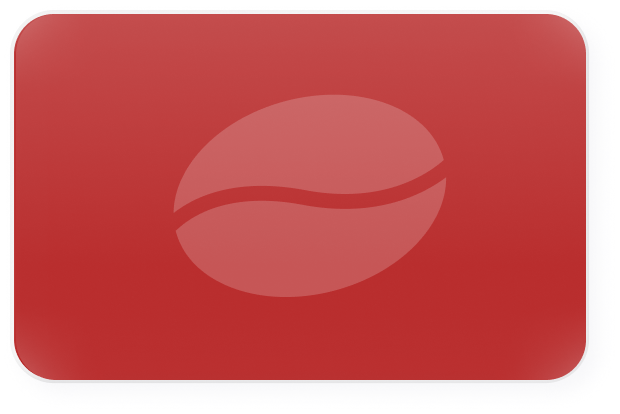
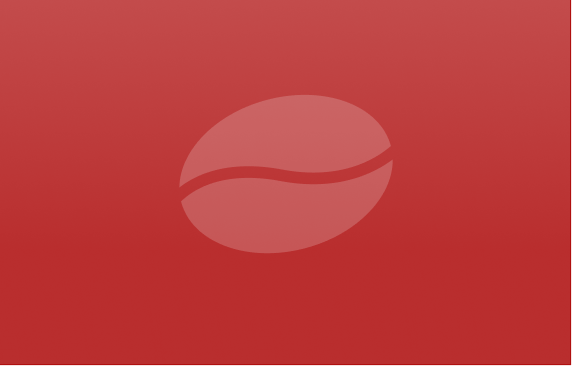
fixed style of the cards

Changed region(s): [[0.0, 0.0, 1.0, 1.0], [0.2675, 0.2104, 0.743, 0.7213], [0.4458, 0.4508, 0.4755, 0.4809]]

diff --git a/app/assets/stylesheets/pages/_card_style_themes.scss b/app/assets/stylesheets/pages/_card_style_themes.scss
@@ -1,4 +1,4 @@
-#gold {
+.loyalty-card .loyalty-card-back.gold {
   background: linear-gradient(135deg, rgba(0, 0, 0, 0.05) 0%, rgba(255, 255, 255, 0.05) 100%),
   linear-gradient(0deg, #e5d060, #e5d060);
   border: 2px solid;
@@ -8,7 +8,7 @@
   box-shadow: -2px -2px 4px 0px #00000014 inset;
 }
 
-#red {
+.loyalty-card .loyalty-card-back.red {
   background: linear-gradient(135deg, rgba(0, 0, 0, 0.05) 0%, rgba(255, 255, 255, 0.05) 100%),
   linear-gradient(0deg, #c34d4d, #c34d4d);
   border: 2px solid;
@@ -18,7 +18,7 @@
   box-shadow: -2px -2px 4px 0px #00000014 inset;
 }
 
-#sky-blue {
+.loyalty-card .loyalty-card-back.sky-blue {
   background: linear-gradient(135deg, rgba(0, 0, 0, 0.05) 0%, rgba(255, 255, 255, 0.05) 100%),
   linear-gradient(0deg, #9ae6fe, #9ae6fe);
   border: 2px solid;
@@ -28,7 +28,7 @@
   box-shadow: -2px -2px 4px 0px #00000014 inset;
 }
 
-#grass {
+.loyalty-card .loyalty-card-back.grass {
   background: linear-gradient(135deg, rgba(0, 0, 0, 0.05) 0%, rgba(255, 255, 255, 0.05) 100%),
   linear-gradient(0deg, #bff9bb, #bff9bb);
   border: 2px solid;
@@ -39,7 +39,7 @@
 }
 
 // <%= card.brand.card_styles[0].theme.downcase %>
-#navy-blue {
+.loyalty-card .loyalty-card-back.navy-blue {
   background: linear-gradient(135deg, rgba(0, 0, 0, 0.05) 0%, rgba(255, 255, 255, 0.05) 100%),
   linear-gradient(0deg, #2d538b, #2d538b);
   border: 2px solid;
@@ -49,7 +49,7 @@
   box-shadow: -2px -2px 4px 0px #00000014 inset;
 }
 
-#purple {
+.loyalty-card .loyalty-card-back.purple {
   background: linear-gradient(135deg, rgba(0, 0, 0, 0.05) 0%, rgba(255, 255, 255, 0.05) 100%),
   linear-gradient(0deg, #4a2a89, #4a2a89);
   border: 2px solid;
@@ -59,17 +59,7 @@
   box-shadow: -2px -2px 4px 0px #00000014 inset;
 }
 
-#silver {
-  background: linear-gradient(135deg, rgba(0, 0, 0, 0.05) 0%, rgba(255, 255, 255, 0.05) 100%),
-  linear-gradient(0deg, #9ae6fe, #9ae6fe);
-  border: 2px solid;
-  border-image-source: linear-gradient(135deg, rgba(0, 0, 0, 0.05) 0%, rgba(255, 255, 255, 0.05) 100%);
-  box-shadow: 5px 5px 10px 0px #AEAEC01A;
-  box-shadow: 2px 2px 4px 0px #FFFFFF66 inset;
-  box-shadow: -2px -2px 4px 0px #00000014 inset;
-}
-
-#space-grey {
+.loyalty-card .loyalty-card-back.silver {
   background: linear-gradient(135deg, rgba(0, 0, 0, 0.05) 0%, rgba(255, 255, 255, 0.05) 100%),
   linear-gradient(0deg, #dcdcdc, #dcdcdc);
   border: 2px solid;
@@ -78,7 +68,17 @@
   box-shadow: 2px 2px 4px 0px #FFFFFF66 inset;
   box-shadow: -2px -2px 4px 0px #00000014 inset;
 }
-#coral {
+
+.loyalty-card .loyalty-card-back.space-grey {
+  background: linear-gradient(135deg, rgba(0, 0, 0, 0.05) 0%, rgba(255, 255, 255, 0.05) 100%),
+  linear-gradient(0deg, #555555, #555555);
+  border: 2px solid;
+  border-image-source: linear-gradient(135deg, rgba(0, 0, 0, 0.05) 0%, rgba(255, 255, 255, 0.05) 100%);
+  box-shadow: 5px 5px 10px 0px #AEAEC01A;
+  box-shadow: 2px 2px 4px 0px #FFFFFF66 inset;
+  box-shadow: -2px -2px 4px 0px #00000014 inset;
+}
+.loyalty-card .loyalty-card-back.coral {
   background: linear-gradient(135deg, rgba(0, 0, 0, 0.05) 0%, rgba(255, 255, 255, 0.05) 100%),
   linear-gradient(0deg, #ff9e9e, #ff9e9e);
   border: 2px solid;

diff --git a/app/assets/stylesheets/pages/_card-flip.scss b/app/assets/stylesheets/pages/_card-flip.scss
@@ -39,7 +39,6 @@ $card-offset: ($card-height * 0.75);
 .loyalty-card-front {
 
   border-radius: 20px;
-  border: solid 2px white;
   background: linear-gradient(135deg, rgba(0, 0, 0, 0.05) 0%, rgba(255, 255, 255, 0.05) 100%),
   linear-gradient(0deg, #A4E9FF, #A4E9FF);
   // position: absolute;

diff --git a/app/assets/stylesheets/pages/_index.scss b/app/assets/stylesheets/pages/_index.scss
@@ -3,5 +3,5 @@
 @import "reward-index";
 @import "card-flip";
 @import "card-index";
-@import "card-style-themes";
+@import "card_style_themes";
 @import "qr-code";

diff --git a/app/controllers/application_controller.rb b/app/controllers/application_controller.rb
@@ -3,11 +3,14 @@ class ApplicationController < ActionController::Base
 
   before_action :configure_permitted_parameters, if: :devise_controller?
 
+  protected
+
   def configure_permitted_parameters
+    devise_params = %i[first_name last_name business]
     # For additional fields in app/views/devise/registrations/new.html.erb
-    devise_parameter_sanitizer.permit(:sign_up, keys: [:first_name, :last_name, :business])
+    devise_parameter_sanitizer.permit(:sign_up, keys: devise_params)
 
     # For additional in app/views/devise/registrations/edit.html.erb
-    devise_parameter_sanitizer.permit(:account_update, keys: [:first_name, :last_name, :business])
+    devise_parameter_sanitizer.permit(:account_update, keys: devise_params)
   end
 end

diff --git a/db/seeds.rb b/db/seeds.rb
@@ -337,7 +337,7 @@ card_styles = [{theme: 'Gold' , url: 'https://static.wikia.nocookie.net/disney/i
   else
     style_image = URI.open(card_styles[index][:url])
   end
-  card_style.background.attach(io: style_image, filename: "card-style.png", content_type: 'img/png')
+  card_style.background.attach(io: style_image, filename: "card-style.png", content_type: 'image/png')
   card_style.save
   puts "Created #{card_style}"
 end
